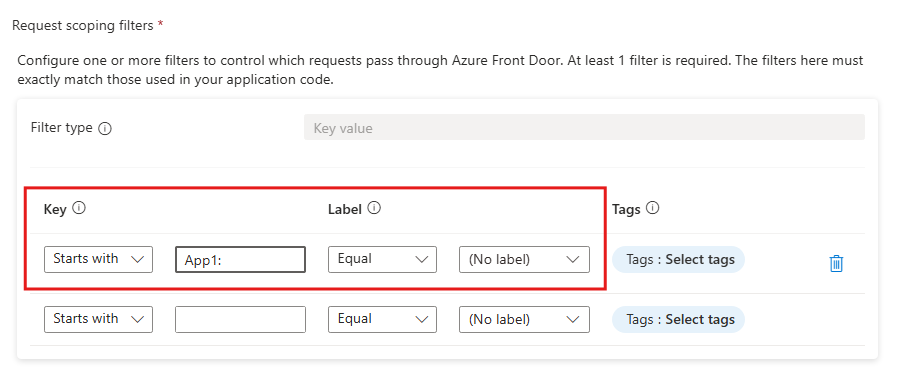
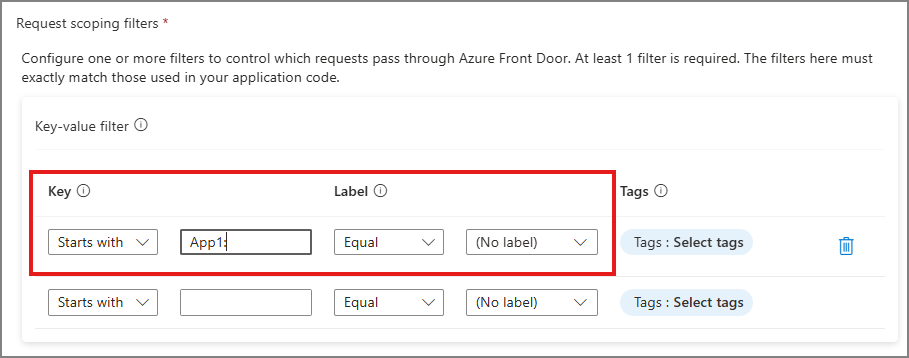
[Docs] Update AFD docs to use Feature Flag filter section (#1132)
* Update to show feature flag filter

* Updated sample2.png screenshot

---------

diff --git a/docs/AzureFrontDoor/readme.md b/docs/AzureFrontDoor/readme.md
@@ -52,7 +52,7 @@ Then your Azure Front Door filters should look like this:
 
 ### Application uses key-values selector 
 
-If your application has the following set up with for loading specific key-values:
+If your application has the following set up for loading specific key-values:
 
 ```cs
 builder.Configuration.AddAzureAppConfiguration(options =>
@@ -100,7 +100,7 @@ Then your Azure Front Door filters should look like this:
 | **Filter Type**  | **Operator**  | **Value**   | **Operator**  | **Value**   |
 | ---------------- | ------------- | ----------- | ------------- | ----------- |
 | Key value        | Key All       | `*`         | Label Equal   | `(No label)` |
-| Key value        | Key Starts with | `.appconfig.featureflag/` | Label Equal  | `(No label)`  |
+| Feature flag     | Key All       | `*`         | Label Equal  | `(No label)`  |
 
 -------
 
@@ -125,8 +125,8 @@ Then your Azure Front Door filters should look like this:
 
 | **Filter Type**  | **Operator**  | **Value**   | **Operator**  | **Value**   |
 | ---------------- | ------------- | ----------- | ------------- | ----------- |
-| Key value        | Key All       | `*`     | Label Equal   | `(No label)`  |
-| Key value        | Key Starts with | `.appconfig.featureflag/MyFeatures`  | Label Equal   | `(No label)`  |
+| Key value        | Key All       | `*`         | Label Equal   | `(No label)`  |
+| Feature flag     | Key Starts with | `MyFeatures`  | Label Equal   | `(No label)`  |
 
 -------
 
@@ -158,7 +158,7 @@ Then your Azure Front Door filters should look like this:
 | **Filter Type**  | **Operator**  | **Value**   | **Operator**  | **Value**   |
 | ---------------- | ------------- | ----------- | ------------- | ----------- |
 | Key value        | Key Starts with | `App1:`     | Label Equal   | `(No label)`  |
-| Key value        | Key Starts with | `.appconfig.featureflag/MyFeatures`  | Label Equal   | `(No label)`  |
+| Feature flag     | Key Starts with | `MyFeatures`  | Label Equal   | `(No label)`  |
 
 -------
 
